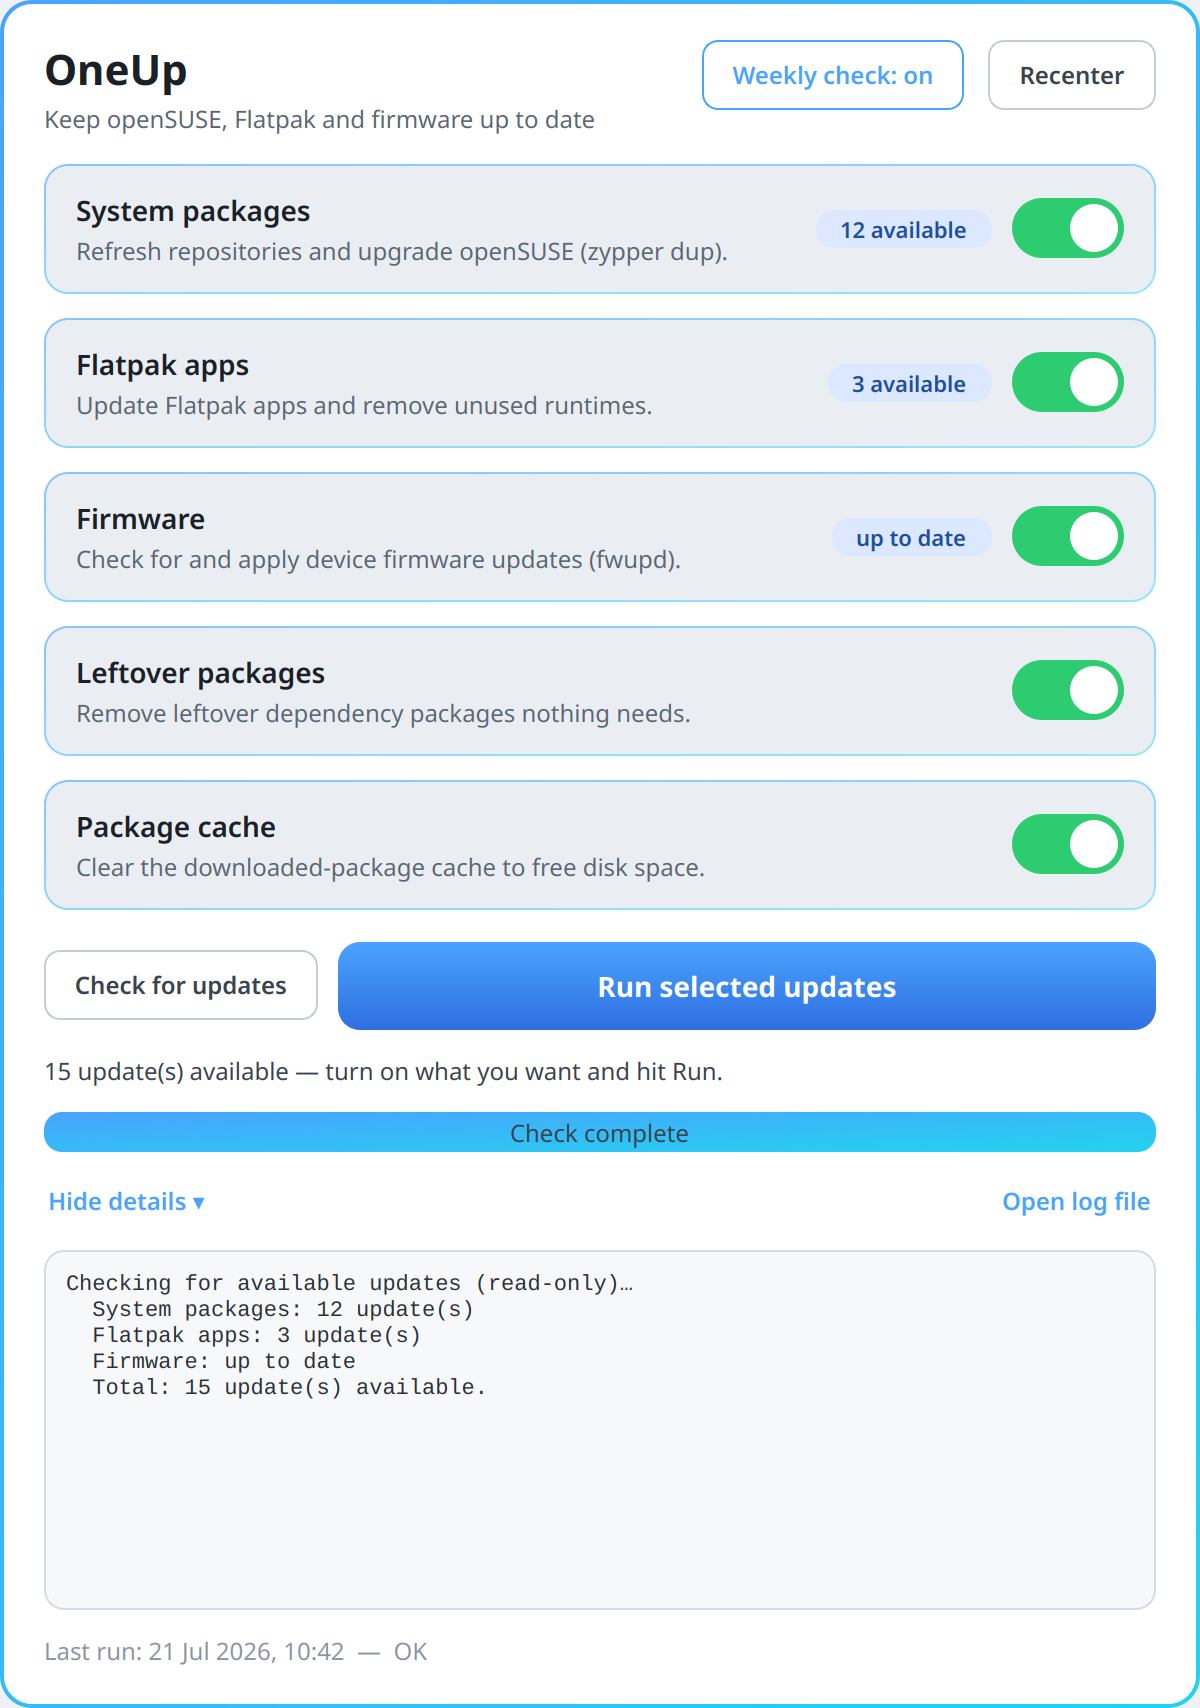
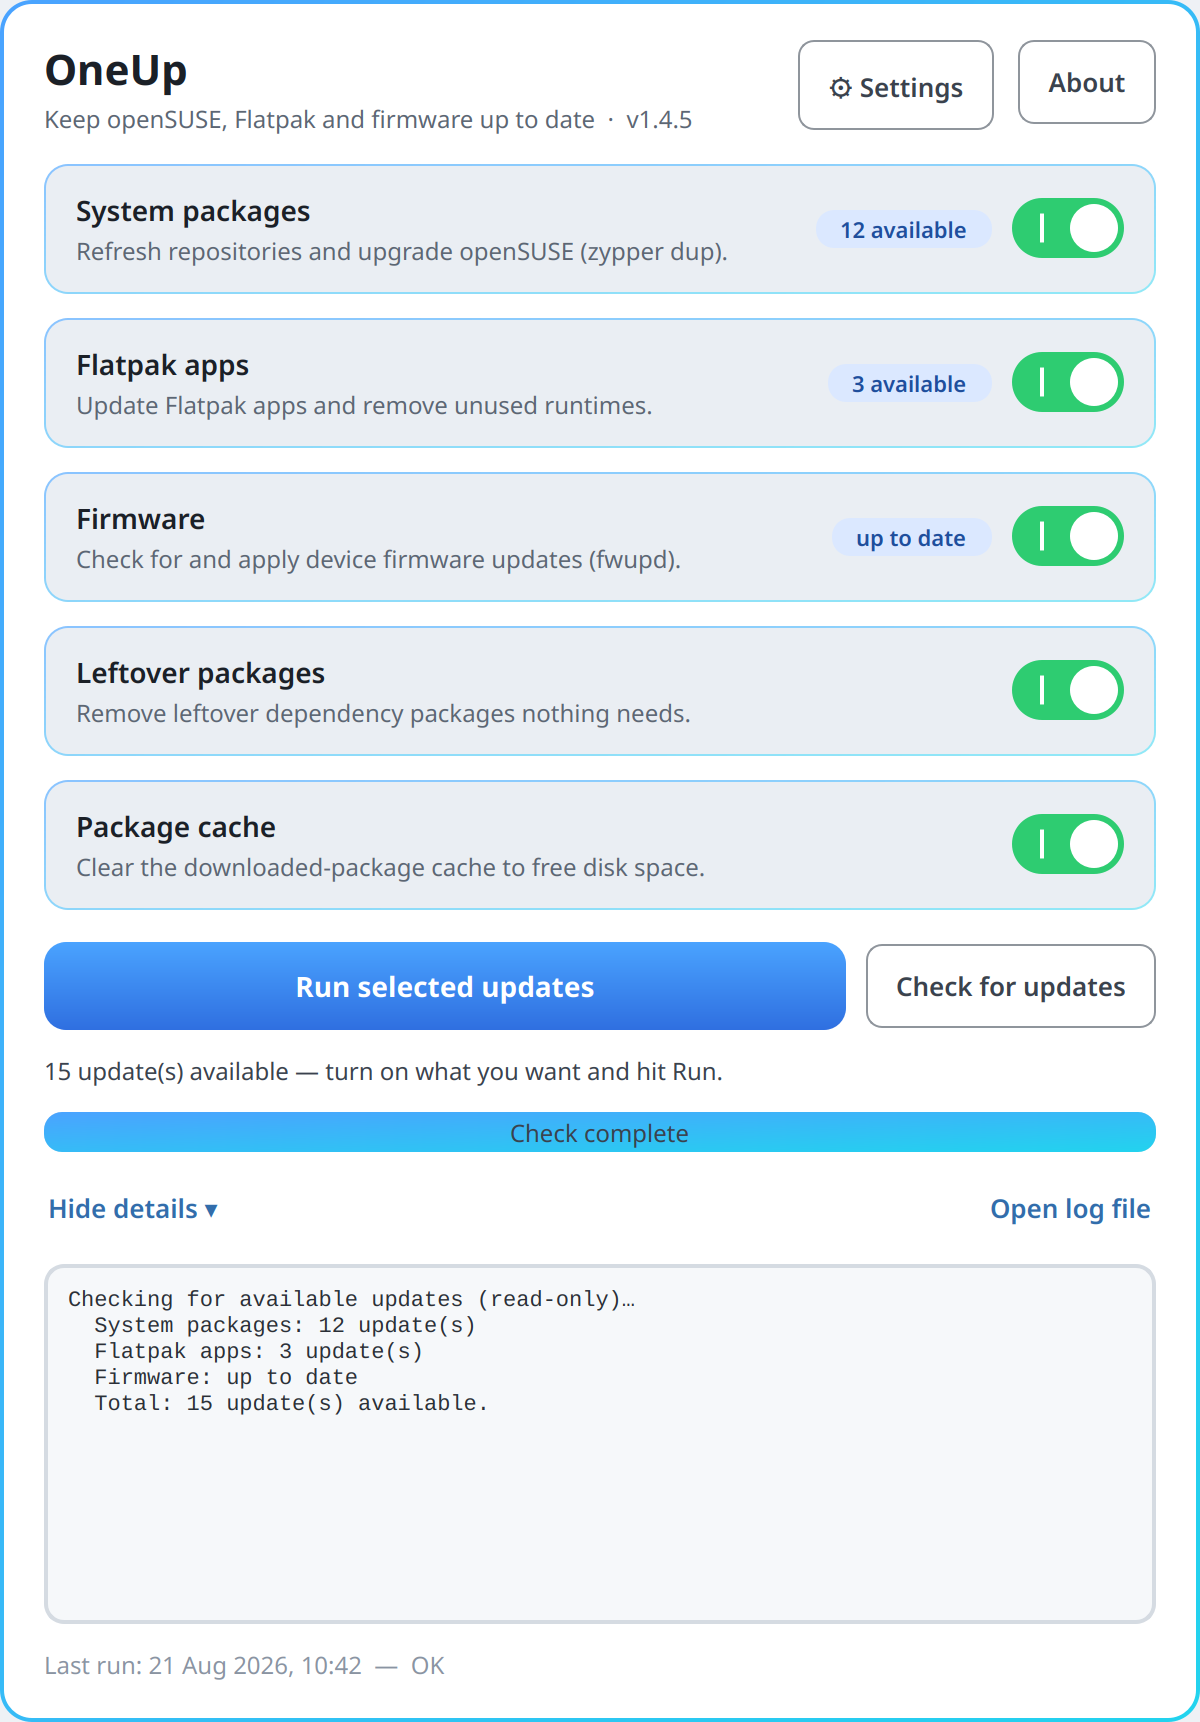
content: Perch and OneUp pages corrected by their sessions, with new screenshots
Perch: docking switches profile rather than restoring every window, the
exclusions list starts empty, and the page adds Pause Perch, the 90-day
forget, the setup guide and `perch --settings` (all checked in v1.2.0's
CHANGELOG). Its tray menu is the new first screenshot. The blurb no longer
calls it a window manager.

OneUp: five tasks, not four; the snapshot is taken only for system
packages; adds automatic updates, passwordless mode, service restarts, the
Repositories window and the accessibility settings. Both main-window shots
are retaken on today's layout, plus a Settings shot.

diff --git a/src/about/oneup.md b/src/about/oneup.md
@@ -8,7 +8,7 @@ The point is not the window. It is knowing which command is correct.
 ## Why it exists
 
 Discover handles packages and Flatpaks, but on Tumbleweed it regularly chokes on
-Packman codec vendor changes — the update stalls and you end up in a terminal
+Packman codec vendor changes. The update stalls and you end up in a terminal
 anyway. It also never touches firmware and never cleans up orphaned packages.
 
 And the correct system-update command on Tumbleweed is `zypper dup
@@ -27,21 +27,46 @@ Five tasks, each a toggle you can switch off:
 | Leftover packages | Autoremoves unneeded dependencies, and *reports* — never removes — hand-installed orphans |
 | Package cache | `zypper clean --all`, to get the disk space back |
 
-On top of that: a read-only check that tells you how many updates are waiting per
-task, a weekly background check that notifies you, an optional tray icon that
-turns amber when there is something to do, and a one-click rollback to the
-snapshot it takes before every run.
+A task whose tool you don't have, such as Flatpak or firmware updates, is skipped
+cleanly.
+
+It can also:
+
+- **Check for updates** read-only, and show how many are waiting for each task.
+- **Check weekly in the background** and notify you when updates are ready.
+- **Sit in the system tray** and turn amber when updates are waiting, with a
+  right-click menu to check, update or open it. It can start at login too.
+- **Update automatically every week**, if you turn it on.
+- **Skip the password prompt**, if you turn it on. It stores no password: the
+  system remembers the decision for OneUp's update commands only, and switching it
+  off takes it back at once. Firmware may still ask, because it checks permission
+  its own way.
+- **Roll back in one click** to the snapshot it takes before updating system
+  packages.
+- **Restart just the affected services** when a full reboot isn't needed, and
+  offer a one-click restart when one is.
+- **Manage your software sources** in a Repositories window: switch them on or
+  off, and remove duplicates.
+- **Explain failures in plain English**, and warn you about low disk space or
+  duplicate sources before it starts.
+
+There is also a live log and a history of past runs.
 
 ## The careful bits
 
-**It never runs as root.** The window is a thin front end; the privileged work
-happens in a script that authenticates once through your desktop's standard
-password prompt.
+**It never runs as root.** The window is a thin front end. The privileged work
+happens in a separate engine that asks for your password once, through your
+desktop's standard password prompt.
+
+**It gets the desktop's own updater out of the way.** The background updater
+holds the package manager shortly after login. OneUp pauses it so the update can
+run, and it comes back on its own afterwards.
 
 **An update is never cut off half-way.** Stop asks the current step to finish
 first, because a half-applied package transaction is how you end up with broken
-programs. Closing the window does not abort a run either — it carries on and
-finishes properly, and you are warned before you close so it is not a surprise.
+programs. Closing the window does not abort a run either. It carries on and
+finishes properly, and you are warned before you close. Open the window again and
+it shows you the run still in progress.
 
 **A failed step never claims success.** Reboot advice appears only when something
 was actually installed, or when the system explicitly says a reboot is needed.
@@ -50,24 +75,37 @@ was actually installed, or when the system explicitly says a reboot is needed.
 everything else updates, and it is retried next time.
 
 **A slow mirror never looks like a crash.** One server was found handing out an
-update index at under 1 KB a second, during which `zypper` says nothing at all and
-the app appeared frozen for minutes. OneUp now shows which source it is fetching,
-how far through the list it is, the size, the speed and how long it has been
-waiting — and gives up on any one source after two minutes, offering to leave it
-out rather than sitting there for hours.
+update index at under 1 KB a second. During that wait `zypper` says nothing at all,
+and the app used to look frozen for minutes. OneUp now shows which source it is
+fetching, how far through the list it is, the size, the speed and how long it has
+been waiting. It gives up on any one source after two minutes and offers to leave
+it out, rather than sitting there for hours.
+
+**Automatic updates never fail silently.** They need the passwordless setting. If
+that stops working, weekly updates switch themselves off and tell you, rather than
+quietly doing nothing every week.
 
 ## Accessibility
 
-Built to be usable if you cannot see the screen well, or at all. Every control has
-a spoken name, the task switches report their on/off state, and progress is spoken
-as it happens — *"Updating system packages, step 1 of 3"* — along with each step's
-outcome and the final summary.
+Built to be usable if you cannot see the screen well, or at all.
 
-The log is deliberately **not** read aloud, because a run prints hundreds of
-lines. It is a named, focusable text area you can read at your own pace instead.
+Every control has a spoken name, and the task switches report their on/off state.
+Progress is spoken as it happens, *"Updating system packages, step 1 of 3"*, along
+with each step's outcome and the final summary. The log is deliberately **not**
+read aloud, because a run prints hundreds of lines. It is a named, focusable text
+area you can read at your own pace instead. Screen-reader behaviour is checked
+with Orca.
+
+OneUp follows your desktop's font size. **Settings → Text size** makes it bigger
+still, and **Settings → High contrast** switches to plain black and white with
+strong outlines, in light or dark.
+
+No colour cue stands alone. Each one comes with words or a shape: the switches
+show a bar when on and a circle when off, and the tray icon draws a "!" when
+updates are waiting.
 
 ## Where it stands
 
 Live and stable, on openSUSE Tumbleweed and Leap. It follows your desktop's
-light/dark setting. The engine underneath is a plain shell script that works on
-its own in a terminal — the window just drives it.
+light or dark setting. The engine underneath also runs on its own in a terminal;
+the window just drives it.

diff --git a/src/about/perch.md b/src/about/perch.md
@@ -3,21 +3,25 @@ Perch stops you dragging the same windows into the same places every single day.
 It sits in your system tray and quietly remembers where each window lives — which
 screen, which spot, what size, which virtual desktop — and puts it back there when
 the window reopens. Open your editor and it lands on the left half of your second
-monitor, the way it always does. Plug your laptop back into your desk and
-everything shuffles home.
+monitor, the way it always does. Plug your laptop into your desk and Perch
+switches to your desk setup.
 
 ## What it does
 
 - **Remembers every window** — position, size, monitor and virtual desktop — and
   restores it on reopen.
-- **Snap presets** from the tray: centre, left or right half, the four quarters,
-  and maximise on this screen. Each one can have a global hotkey.
+- **Snap presets** from the tray: left or right half, the four quarters, centre,
+  and maximise on this screen. Add your own, and give any preset a global hotkey.
 - **Named layouts** — flip the whole screen between your "coding", "media" and
   "writing" arrangements in one click.
 - **Rules** — *always open Firefox on monitor 2, maximised*, and it just happens.
 - **Docked and laptop profiles**, so windows land differently at your desk than
   they do on the train.
-- **An exclusions list**, so splash screens and small dialogs are left alone.
+- **An exclusions list** — name a splash screen or a small dialog, and Perch
+  leaves it alone.
+- **Pause Perch** from the tray, and nothing moves on its own until you turn it
+  back on.
+- **Tidies up after itself** — apps you haven't opened in 90 days are forgotten.
 - **Export and import**, so your setup survives a reinstall or moves to a new
   machine.
 
@@ -25,8 +29,14 @@ everything shuffles home.
 
 Perch ships as a single AppImage file. There is nothing to install, no
 dependencies to chase and no Python to set up: download it, make it executable,
-run it. It appears in your tray, and right-clicking the icon gets you everything —
-snap presets, layouts and settings. A toggle in its settings starts it at login.
+run it. On openSUSE Tumbleweed and Fedora you can install it from a package
+repository instead, and it updates with the rest of your system.
+
+The first time it runs, a short setup guide explains that there is nothing you
+have to configure. Then it sits in your tray. Right-click the icon for snap
+presets, layouts and settings. If your desktop hides tray icons, run
+`perch --settings` to open the settings window. A toggle in the settings starts
+Perch at login, and you can pick a light or dark look.
 
 ## Will it work on your desktop?
 
@@ -40,11 +50,11 @@ finished:
 | GNOME on Wayland | Not yet |
 | Sway, wlroots, Hyprland | Not yet |
 
-The unfinished ones have their wiring in place and need someone to fill in a
-single interface — no changes to Perch's core.
+The unfinished ones already have a basic backend. Each needs someone to finish
+it, and none needs changes to Perch's core.
 
 ## Where it stands
 
-Version 1.0 and stable. Linux only for now; a Windows edition with a native
-backend is on the roadmap as a separate track. Free and open source under the
-GPL-3.0.
+Stable, and still being improved. Linux only for now; a Windows edition is on
+the roadmap as a separate track. Flathub and AUR packages are planned. Free and
+open source under the GPL-3.0.
